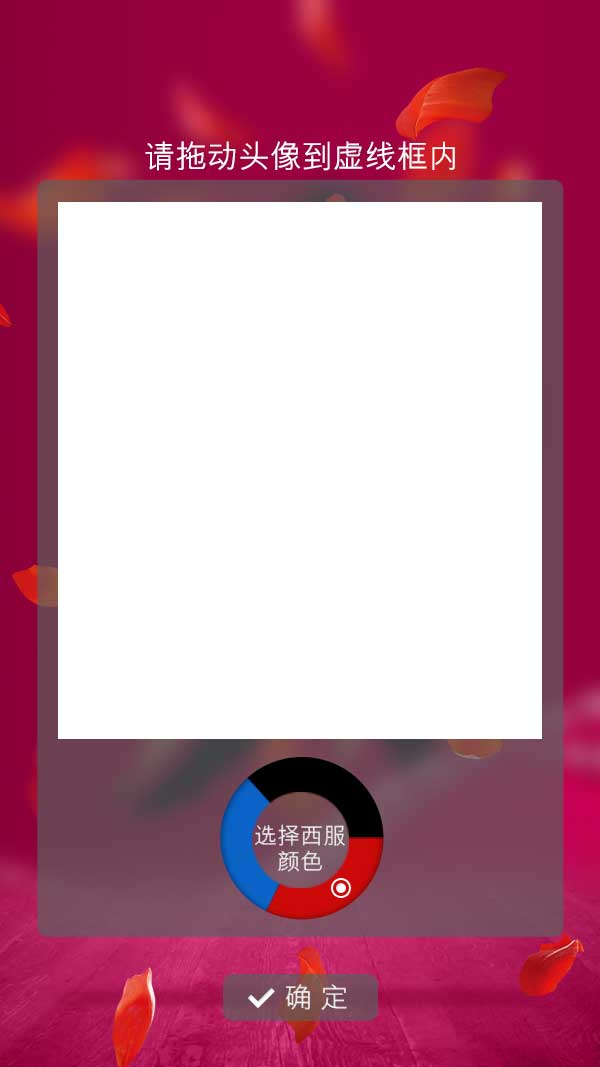
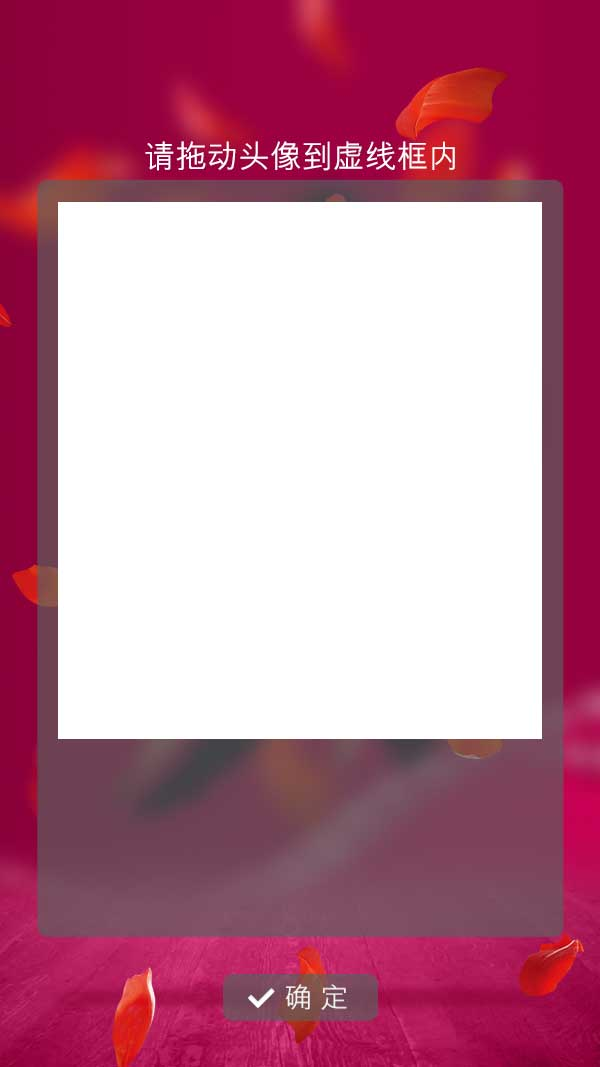
bxn:update mod/canvas

Changed region(s): [[0.36, 0.7113, 0.66, 0.866]]

diff --git a/src/app/bxn-201502/script/mod/canvas/body.tpl.html b/src/app/bxn-201502/script/mod/canvas/body.tpl.html
@@ -7,9 +7,15 @@ var app = require('app');
 <!-- include "body.scss" -->
 
 <div class="body-inner">
-	<canvas width="484" height="537">
-		Your browser does not support HTML5 Canvas.
-	</canvas>
+        <canvas width="484" height="537">
+            Your browser does not support HTML5 Canvas.
+        </canvas>
+        <div id="btn-canvas-choose" class="btn-choose-color btn-chose-color-blue">
+             <div id="btn-canvas-chose-blue" style="float:left;height:100%;width:50%;"></div>
+  
+            <div id="btn-canvas-chose-red"  style="float:right;height:100%;width:50%;"></div>
+        </div>
+
     <div style="display:none">
         <img id="mask-head" src="../../../image/mask_head.png">
         <img id="mask-line" src="../../../image/mask_line.png">

diff --git a/src/app/bxn-201502/script/mod/canvas/body.scss b/src/app/bxn-201502/script/mod/canvas/body.scss
@@ -17,4 +17,18 @@
         width: 35%;
         height: 11%;
     }
+    .btn-choose-color {
+        height: 20%;
+        width: 30%;
+        position: absolute;
+        left: 40%;
+        top: 68%;
+        background-size: cover;
+    }
+    .btn-chose-color-blue {
+        background-image: url(../../../image/btn_choose_color_blue.png)
+    }
+    .btn-chose-color-red {
+        background-image: url(../../../image/btn_choose_color_red.png)
+    }
 }
